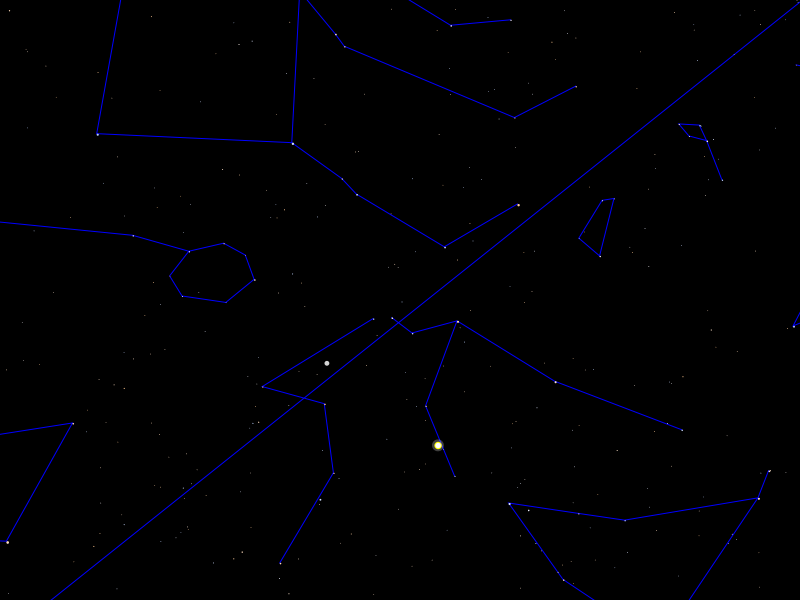
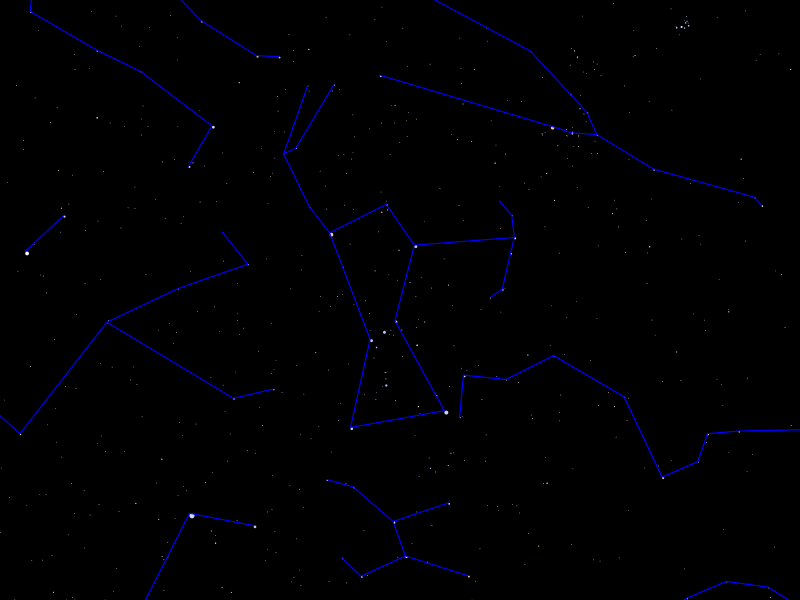
SkyPainter

diff --git a/src/ch/epfl/rigel/gui/MyDrawSky.java b/src/ch/epfl/rigel/gui/MyDrawSky.java
@@ -40,7 +40,7 @@ public final class MyDrawSky extends Application {
                     .loadFrom(hs, HygDatabaseLoader.INSTANCE)
                     .loadFrom(as, AsterismLoader.INSTANCE)
                     .build();
-            ZonedDateTime when = ZonedDateTime.parse("2020-02-20T13:00:00+01:00");
+            ZonedDateTime when = ZonedDateTime.parse("2020-02-17T20:15:00+01:00");
             GeographicCoordinates where = GeographicCoordinates.ofDeg(6.57, 46.52);
             HorizontalCoordinates projCenter = HorizontalCoordinates.ofDeg(180, 45);
             StereographicProjection projection = new StereographicProjection(projCenter);
@@ -57,6 +57,7 @@ public final class MyDrawSky extends Application {
             painter.drawPlanets(sky, projection, planeToCanvas);
             painter.drawSun(sky, projection, planeToCanvas);
             painter.drawMoon(sky, projection, planeToCanvas);
+            painter.drawAsterisms(sky, projection, planeToCanvas);
 
             WritableImage fxImage = canvas.snapshot(null, null);
             BufferedImage swingImage = SwingFXUtils.fromFXImage(fxImage, null);

diff --git a/src/ch/epfl/rigel/gui/SkyCanvasPainter.java b/src/ch/epfl/rigel/gui/SkyCanvasPainter.java
@@ -1,6 +1,8 @@
 package ch.epfl.rigel.gui;
 
 import ch.epfl.rigel.astronomy.*;
+import ch.epfl.rigel.coordinates.CartesianCoordinates;
+import ch.epfl.rigel.coordinates.HorizontalCoordinates;
 import ch.epfl.rigel.coordinates.StereographicProjection;
 import ch.epfl.rigel.math.Angle;
 import ch.epfl.rigel.math.ClosedInterval;
@@ -143,7 +145,12 @@ public class SkyCanvasPainter {
      * @param planeToCanvas transformation
      */
     public void drawHorizon(ObservedSky sky, StereographicProjection projection, Transform planeToCanvas) {
+        CartesianCoordinates center = projection.circleCenterForParallel(HorizontalCoordinates.of(0, 0));
+        double radius = projection.circleRadiusForParallel(HorizontalCoordinates.of(0, 0));
 
+        ctx.setStroke(Color.RED);
+        ctx.setLineWidth(2);
+        ctx.strokeOval(center.x(), center.y(), radius, radius);
     }
 
     /**
